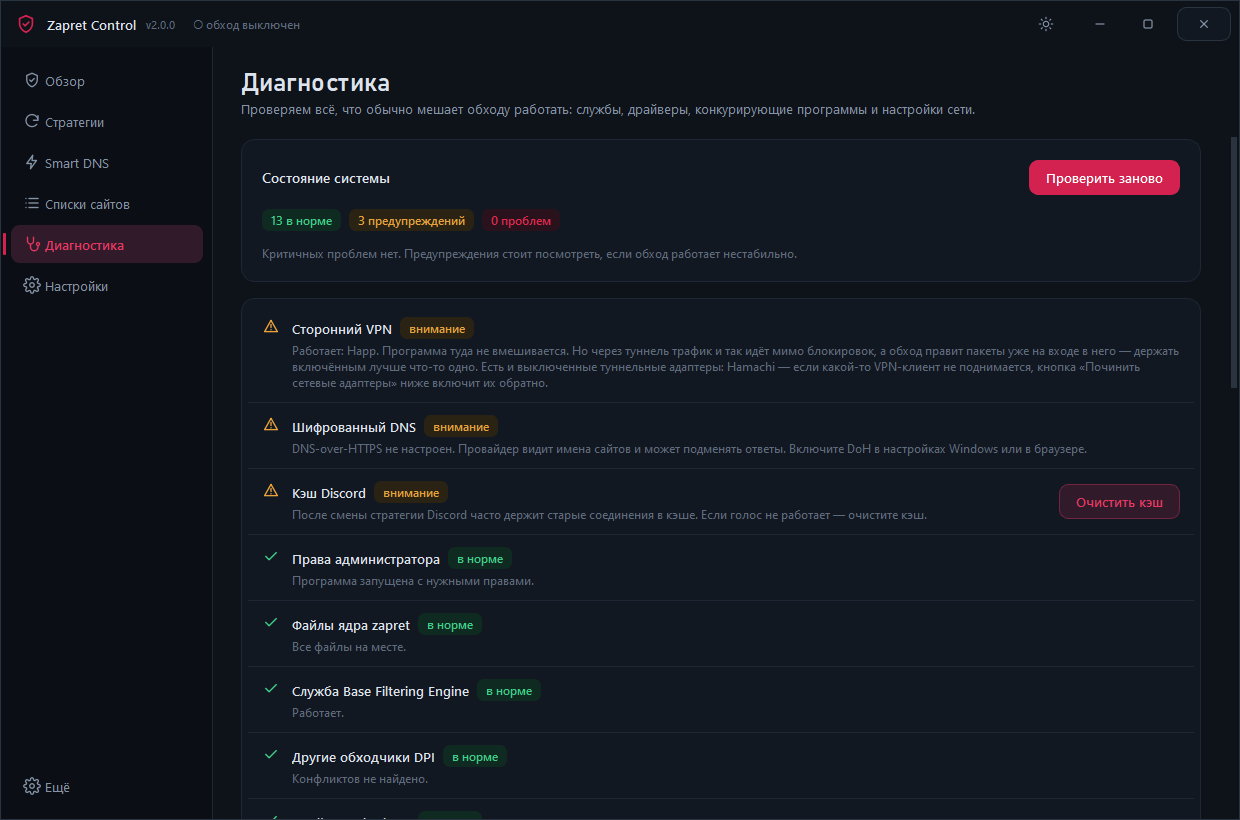
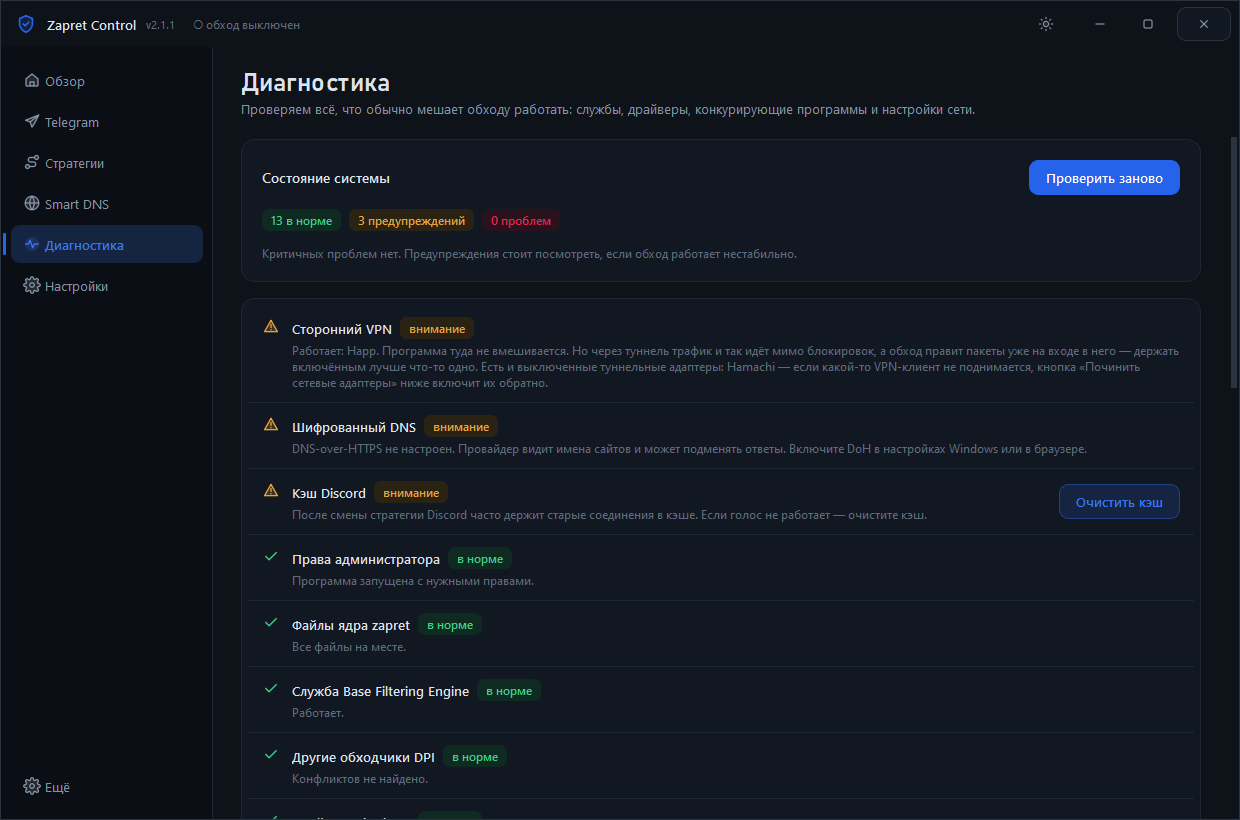
Zapret Control 2.1.1: синий основной цвет и новая иконка
Акцент по умолчанию — сапфировый синий, тема светлая; старый рубин
по умолчанию переводится на синий один раз. Синяя иконка приложения,
установщика и баннер на GitHub. Схема маршрутов в холодной гамме:
обход носит цвет программы, Telegram — небесный, DNS — бирюзовый.

diff --git a/app/ui/theme.py b/app/ui/theme.py
@@ -209,7 +209,7 @@ def resolve_theme_key(key: str) -> str:
 
 def build_tokens(theme_key: str, accent_key: str) -> dict[str, str]:
     theme = THEME_BY_KEY[resolve_theme_key(theme_key)]
-    accent = ACCENT_BY_KEY.get(accent_key, ACCENT_BY_KEY["ruby"])
+    accent = ACCENT_BY_KEY.get(accent_key, ACCENT_BY_KEY["sapphire"])
 
     tokens = dict(theme.colors)
     tokens.update({
@@ -230,9 +230,11 @@ def build_tokens(theme_key: str, accent_key: str) -> dict[str, str]:
     # Цвета маршрутов — это не украшение, а способ читать состояние:
     # один и тот же цвет означает один и тот же путь трафика во всей программе.
     tokens["lane_direct"] = "#7C8AA0" if theme.dark else "#68758A"
-    tokens["lane_zapret"] = "#E63862" if theme.dark else "#C41E4A"
-    tokens["lane_dns"] = "#22C6D8" if theme.dark else "#0E93A6"
-    tokens["lane_tg"] = "#3BA0E6" if theme.dark else "#1F7FCC"
+    # Обход — главный инструмент, он носит цвет программы (акцент).
+    # Остальные — своя холодная гамма: Telegram — небесный, DNS — бирюза.
+    tokens["lane_zapret"] = tokens["accent"]
+    tokens["lane_dns"] = "#2DD4BF" if theme.dark else "#0F9D8A"
+    tokens["lane_tg"] = "#38BDF8" if theme.dark else "#1A9BD7"
     # Чужой туннель — намеренно приглушённый: это не наш инструмент,
     # мы им не управляем и только сообщаем, что он поднят.
     tokens["lane_vpn"] = "#8B7BD8" if theme.dark else "#6A57C4"

diff --git a/app/core/config.py b/app/core/config.py
@@ -13,7 +13,8 @@ DEFAULTS: dict[str, Any] = {
     "config_version": CONFIG_VERSION,
     # Внешний вид
     "theme": "light",             # см. ui/theme.py
-    "accent": "ruby",
+    "accent": "sapphire",
+    "accent_migrated_blue": False,  # разовый перевод старого рубина на синий
     "last_dark_theme": "rails",   # куда возвращает кнопка «тёмная» в заголовке
     # Поведение
     "run_mode": "service",        # service | process
@@ -103,6 +104,20 @@ class Config:
             for key, value in raw.items():
                 if key in DEFAULTS:
                     self._data[key] = value
+        self._migrate()
+
+    def _migrate(self) -> None:
+        """Разовые правки уже сохранённых настроек."""
+        changed = False
+        # Основной цвет программы стал синим. Рубин был цветом по умолчанию,
+        # который никто не выбирал осознанно, — переводим его один раз.
+        if not self._data.get("accent_migrated_blue"):
+            if self._data.get("accent") == "ruby":
+                self._data["accent"] = "sapphire"
+            self._data["accent_migrated_blue"] = True
+            changed = True
+        if changed:
+            self.save()
 
     def raw(self) -> dict[str, Any]:
         """Файл настроек как есть, вместе с ключами прошлых версий.

diff --git a/build/make_banner.py b/build/make_banner.py
@@ -17,9 +17,9 @@ sys.path.insert(0, str(ROOT / "build"))
 from make_icon import build_icon  # noqa: E402
 
 SIZE = (1280, 420)
-TOP = (16, 8, 14)
-BOTTOM = (96, 12, 40)
-RUBY = (212, 34, 80)
+TOP = (8, 12, 28)
+BOTTOM = (22, 52, 150)
+BLUE = (59, 118, 240)
 
 TARGET = ROOT / "docs" / "banner.png"
 
@@ -55,7 +55,7 @@ def build() -> Image.Image:
     )
     glow = glow.filter(ImageFilter.GaussianBlur(90))
     canvas = Image.alpha_composite(canvas, Image.composite(
-        Image.new("RGBA", SIZE, (*RUBY, 255)),
+        Image.new("RGBA", SIZE, (*BLUE, 255)),
         Image.new("RGBA", SIZE, (0, 0, 0, 0)),
         glow,
     ))
@@ -84,12 +84,12 @@ def build() -> Image.Image:
     draw.text(
         (left, 232),
         "Обход блокировок Discord, YouTube и Telegram — в одном окне",
-        font=sub_font, fill=(240, 212, 220),
+        font=sub_font, fill=(214, 226, 250),
     )
     draw.text(
         (left, 286),
         "zapret · Smart DNS для Xbox · Telegram · автообновление",
-        font=small_font, fill=(206, 158, 174),
+        font=small_font, fill=(160, 190, 240),
     )
     return canvas.convert("RGB")
 

diff --git a/build/make_icon.py b/build/make_icon.py
@@ -1,4 +1,4 @@
-"""Генерация иконки приложения: рубиновый щит с галочкой.
+"""Генерация иконки приложения: синий щит с галочкой.
 
 Запуск: python build/make_icon.py
 Результат: app/resources/icon.ico (+ icon.png для README и страницы GitHub).
@@ -11,8 +11,8 @@ from pathlib import Path
 from PIL import Image, ImageDraw, ImageFilter
 
 SIZE = 1024
-RUBY_LIGHT = (214, 43, 88)
-RUBY_DARK = (150, 18, 55)
+BLUE_LIGHT = (59, 118, 240)
+BLUE_DARK = (24, 58, 168)
 OUTPUT_SIZES = (16, 20, 24, 32, 48, 64, 128, 256)
 
 ROOT = Path(__file__).resolve().parents[1]
@@ -60,7 +60,7 @@ def build_icon() -> Image.Image:
     mask = Image.new("L", (SIZE, SIZE), 0)
     ImageDraw.Draw(mask).polygon(shield_polygon(SIZE), fill=255)
 
-    body = vertical_gradient(SIZE, RUBY_LIGHT, RUBY_DARK).convert("RGBA")
+    body = vertical_gradient(SIZE, BLUE_LIGHT, BLUE_DARK).convert("RGBA")
     canvas.paste(body, (0, 0), mask)
 
     # Мягкий блик по верхней части щита — даёт объём.

diff --git a/build/screenshots.py b/build/screenshots.py
@@ -33,9 +33,9 @@ def main() -> int:
     application.processEvents()
 
     combos = [
-        ("rails", "cyan"),
-        ("light", "ruby"),
-        ("midnight", "sapphire"),
+        ("rails", "sapphire"),
+        ("light", "sapphire"),
+        ("midnight", "cyan"),
     ]
     pages = [key for key, _title, _icon in PAGES]
 
@@ -43,7 +43,7 @@ def main() -> int:
         # Кадры для README: без плашек о правах и чужом VPN — они про
         # конкретную машину, а не про программу. Диагностику и проверку
         # обновлений запускаем, чтобы страницы не были пустыми.
-        combos = [("light", "ruby"), ("rails", "ruby")]
+        combos = [("light", "sapphire"), ("rails", "sapphire")]
         home = window.ensure_page("home")
         for name in ("banner_admin", "banner_tunnel"):
             banner = getattr(home, name, None)

diff --git a/app/ui/widgets.py b/app/ui/widgets.py
@@ -165,7 +165,7 @@ class Switch(QWidget):
         super().__init__(parent)
         self._checked = checked
         self._offset = 1.0 if checked else 0.0
-        self._track_on = QColor("#C41E4A")
+        self._track_on = QColor("#2563EB")
         self._track_off = QColor("#CDD4DE")
         self._knob = QColor("#FFFFFF")
         self.setFixedSize(42, 24)
@@ -343,7 +343,7 @@ class Toast(QFrame):
 class Spinner(QWidget):
     """Круговой индикатор занятости."""
 
-    def __init__(self, size: int = 18, color: str = "#C41E4A",
+    def __init__(self, size: int = 18, color: str = "#2563EB",
                  parent: QWidget | None = None) -> None:
         super().__init__(parent)
         self._angle = 0

diff --git a/build/make_installer_art.py b/build/make_installer_art.py
@@ -19,8 +19,8 @@ TARGET_DIR = ROOT / "build" / "art"
 BANNER_SIZE = (492, 942)
 SMALL_SIZE = (165, 165)
 
-TOP = (28, 12, 24)
-BOTTOM = (150, 18, 55)
+TOP = (10, 16, 36)
+BOTTOM = (29, 78, 216)
 
 
 def gradient(size: tuple[int, int]) -> Image.Image:
@@ -47,7 +47,7 @@ def make_banner() -> Image.Image:
     canvas = Image.alpha_composite(
         canvas,
         Image.composite(
-            Image.new("RGBA", BANNER_SIZE, (255, 120, 150, 255)),
+            Image.new("RGBA", BANNER_SIZE, (130, 175, 255, 255)),
             Image.new("RGBA", BANNER_SIZE, (0, 0, 0, 0)),
             glow,
         ),

diff --git a/app/core/constants.py b/app/core/constants.py
@@ -3,7 +3,7 @@
 # --- Продукт -------------------------------------------------------------
 APP_NAME = "Zapret Control"
 APP_ID = "ZapretControl"
-APP_VERSION = "2.1.0"
+APP_VERSION = "2.1.1"
 APP_AUTHOR = "ketamine"
 APP_AUTHOR_FULL = "Ivan Milyaev (ketamine)"
 APP_PUBLISHER = "Ivan Milyaev (ketamine)"

diff --git a/app/ui/pages/settings.py b/app/ui/pages/settings.py
@@ -37,7 +37,7 @@ class ThemeCard(QWidget):
         self.title = title
         self.colors = colors
         self.selected = False
-        self.accent = "#C41E4A"
+        self.accent = "#2563EB"
         self.setFixedSize(150, 104)
         self.setCursor(Qt.CursorShape.PointingHandCursor)
 

diff --git a/README.md b/README.md
@@ -2,8 +2,8 @@
 
 <img src="docs/banner.png" alt="Zapret Control">
 
-[![Релиз](https://img.shields.io/github/v/release/77WhyNot/ZapretControl?style=for-the-badge&label=версия&color=C41E4A)](https://github.com/77WhyNot/ZapretControl/releases/latest)
-[![Загрузки](https://img.shields.io/github/downloads/77WhyNot/ZapretControl/total?style=for-the-badge&label=загрузок&color=C41E4A)](https://github.com/77WhyNot/ZapretControl/releases)
+[![Релиз](https://img.shields.io/github/v/release/77WhyNot/ZapretControl?style=for-the-badge&label=версия&color=2563EB)](https://github.com/77WhyNot/ZapretControl/releases/latest)
+[![Загрузки](https://img.shields.io/github/downloads/77WhyNot/ZapretControl/total?style=for-the-badge&label=загрузок&color=2563EB)](https://github.com/77WhyNot/ZapretControl/releases)
 [![Windows](https://img.shields.io/badge/Windows-10%20и%2011-0078D4?style=for-the-badge)](https://github.com/77WhyNot/ZapretControl/releases/latest)
 [![Лицензия](https://img.shields.io/badge/лицензия-проприетарная-555?style=for-the-badge)](LICENSE)
 
@@ -52,7 +52,7 @@ Zapret Control убирает всё это. На главном экране т
 | **Диагностика** | 16 проверок: драйвер WinDivert, служба BFE, TCP timestamps, конфликты с GoodbyeDPI, Killer, Check Point, AdGuard, SmartByte, чужие туннели, шифрованный DNS, hosts. У большинства проблем есть кнопка «Исправить». Плюс перезапуск Discord с очисткой кэша. |
 | **Проверка доступности** | Discord, YouTube, Google, ChatGPT, Claude, Gemini — за один клик видно, что открывается, а что нет. |
 | **Работает без GitHub** | Если GitHub заблокирован, программа сама переберёт зеркала (ghproxy, gh-proxy, ghfast, gitmirror, jsDelivr) или пойдёт через ваш прокси. |
-| **Оформление** | 5 тем и 8 акцентных цветов, двухтоновые иконки, плавные переходы страниц и раскрывающихся разделов. Светлая ↔ тёмная — кнопкой прямо в заголовке окна. По умолчанию светлая с рубиновым акцентом. |
+| **Оформление** | 5 тем и 8 акцентных цветов, двухтоновые иконки, плавные переходы страниц и раскрывающихся разделов. Светлая ↔ тёмная — кнопкой прямо в заголовке окна. По умолчанию светлая с синим акцентом. |
 | **Трей** | Сворачивается к часам, включается и выключается из контекстного меню, умеет стартовать вместе с Windows без окна UAC. |
 
 <div align="center">
